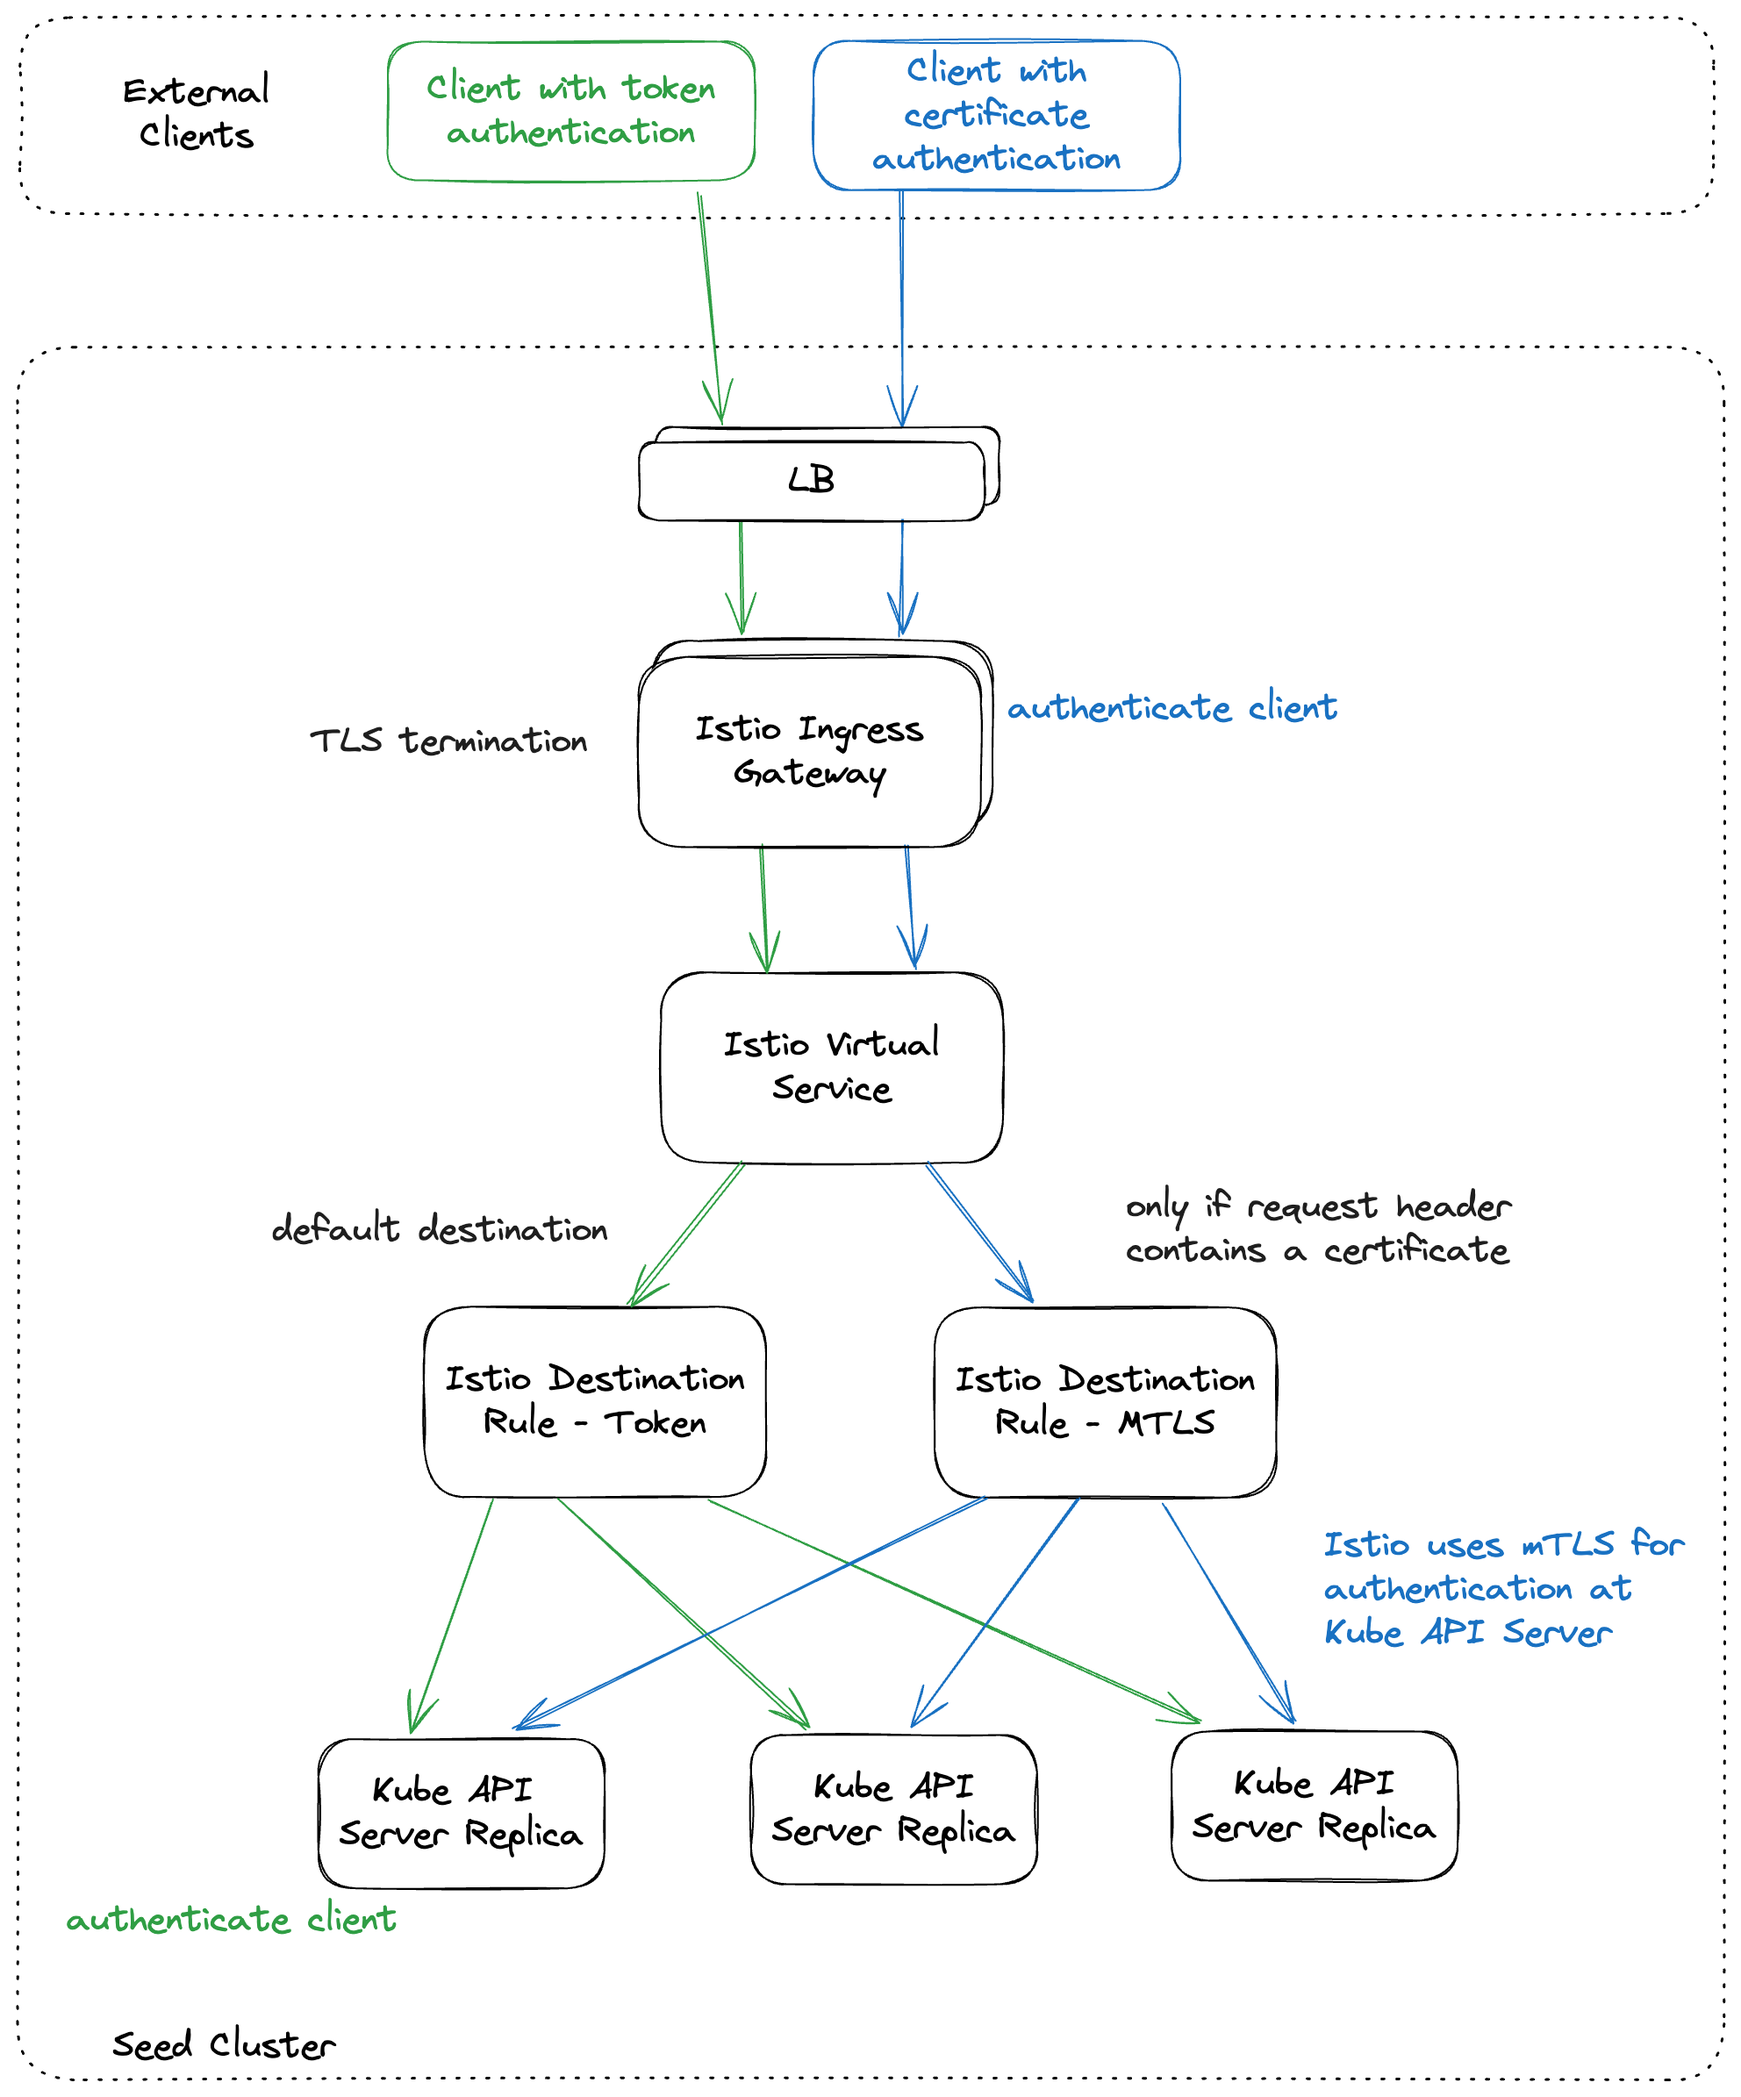
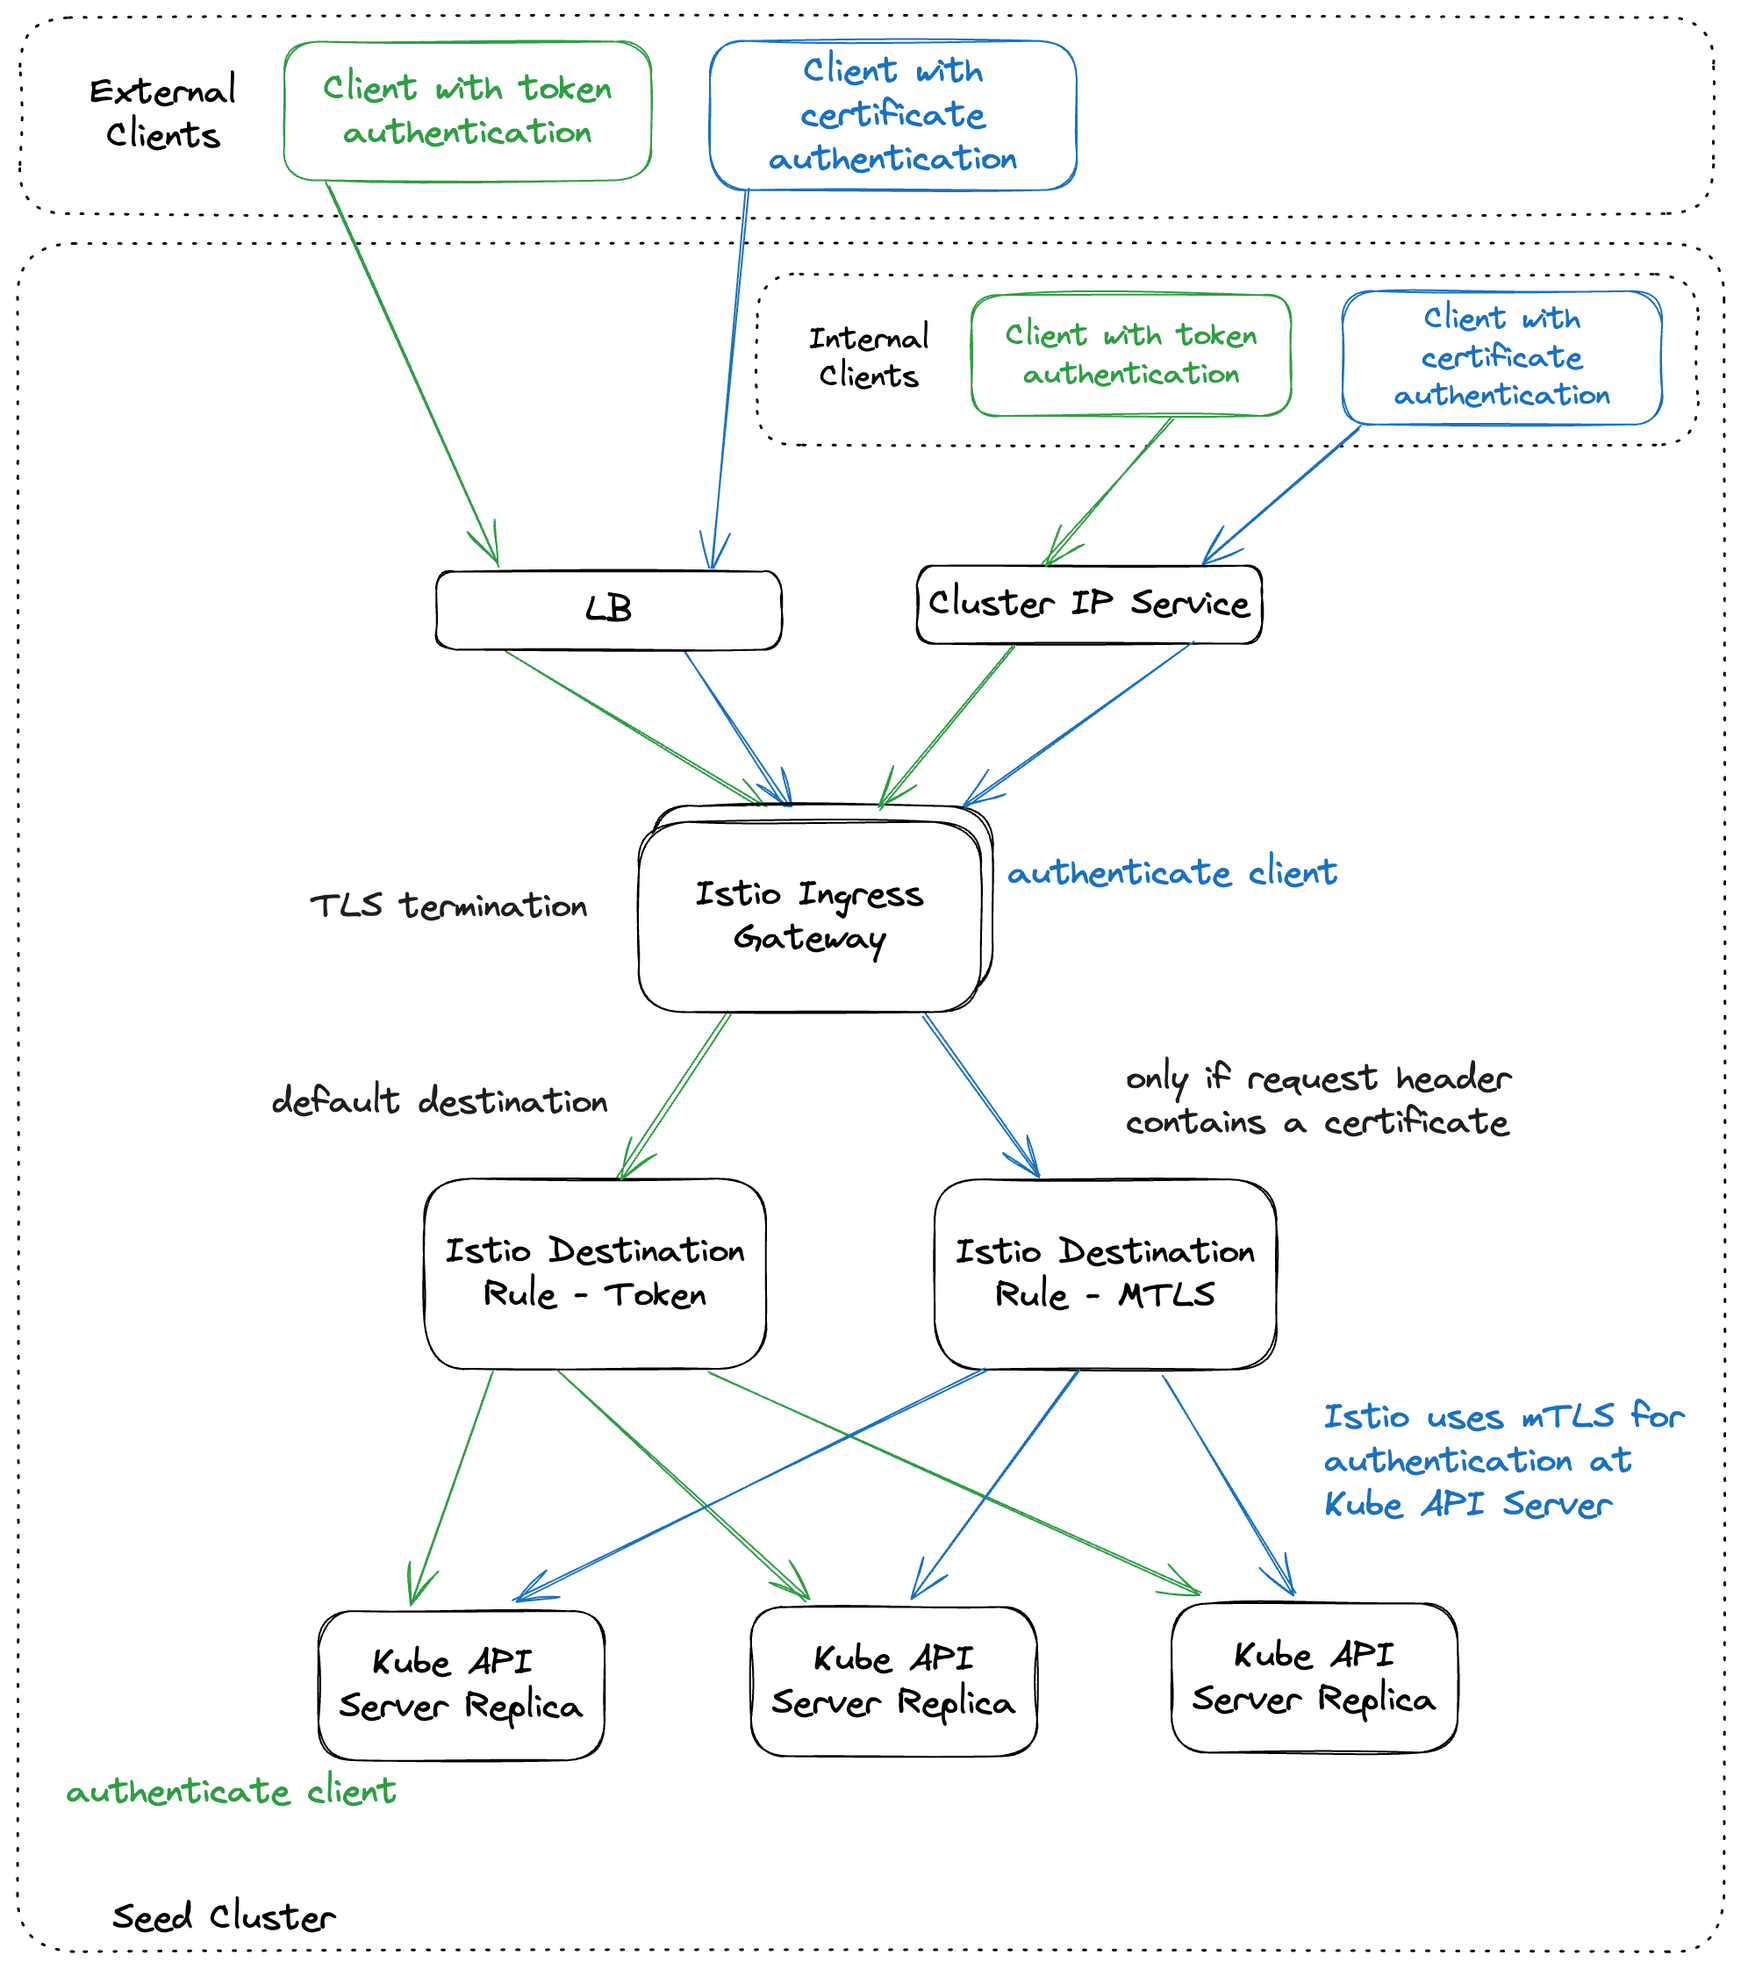
Update documentation

diff --git a/docs/operations/kube_apiserver_loadbalancing.md b/docs/operations/kube_apiserver_loadbalancing.md
@@ -19,8 +19,9 @@ them with `shoot.gardener.cloud/disable-istio-tls-termination: "true"`.
 
 ## How it works
 
-L7 load balancing works for the externally resolvable Kube API server endpoints and for connections which use
-`apiserver-proxy` like endpoint `kubernetes.default.svc.cluster.local`.
+L7 load balancing works for the externally resolvable Kube API server endpoints, for connections which use
+`apiserver-proxy` like endpoint `kubernetes.default.svc.cluster.local` and for control plane components running in shoot
+namespaces.
 
 Clients might authenticate at Kube API server using client certificates, tokens or might connect unauthenticated. In the
 first case Istio ingress gateway must validate client certificates because it terminates the TLS connection. Thus, it is
@@ -41,6 +42,15 @@ The destination host of the istio virtual service has an istio destination rule 
 server authenticates requests by itself. It is used for the token based authentication. The istio destination rule for
 the mTLS connection is set by the lua script mentioned above only. This is a safety net to prevent that requests can
 reach Kube API server via the trusted connection in case the lua scripts fails for some reason.
+
+Cluster internal control plane components like `kube-controller-manager`, `kube-scheduler` and `gardener-resource-manager`
+use L7 load balancing too. They connect to the Kube API server via an cluster IP service for istio ingress gateway.
+The generic token kubeconfig uses the public Kube API server endpoint. In order to avoid external traffic, the control
+plane components use host aliases in their pod specifications. For convenience, the host alias are automatically added
+by the [`pod-kube-apiserver-load-balancing`](../../pkg/resourcemanager/webhook/podkubeapiserverloadbalancing) webhook
+in `gardener-resource-manager`. It also adds a label to create a network policy allowing egress traffic to the istio
+ingress gateway pods.
+This works for control plane components running in shoot namespaces and for the virtual garden control plane.
 
 The flow for L7 load balancing is shown in the following illustration.
 
